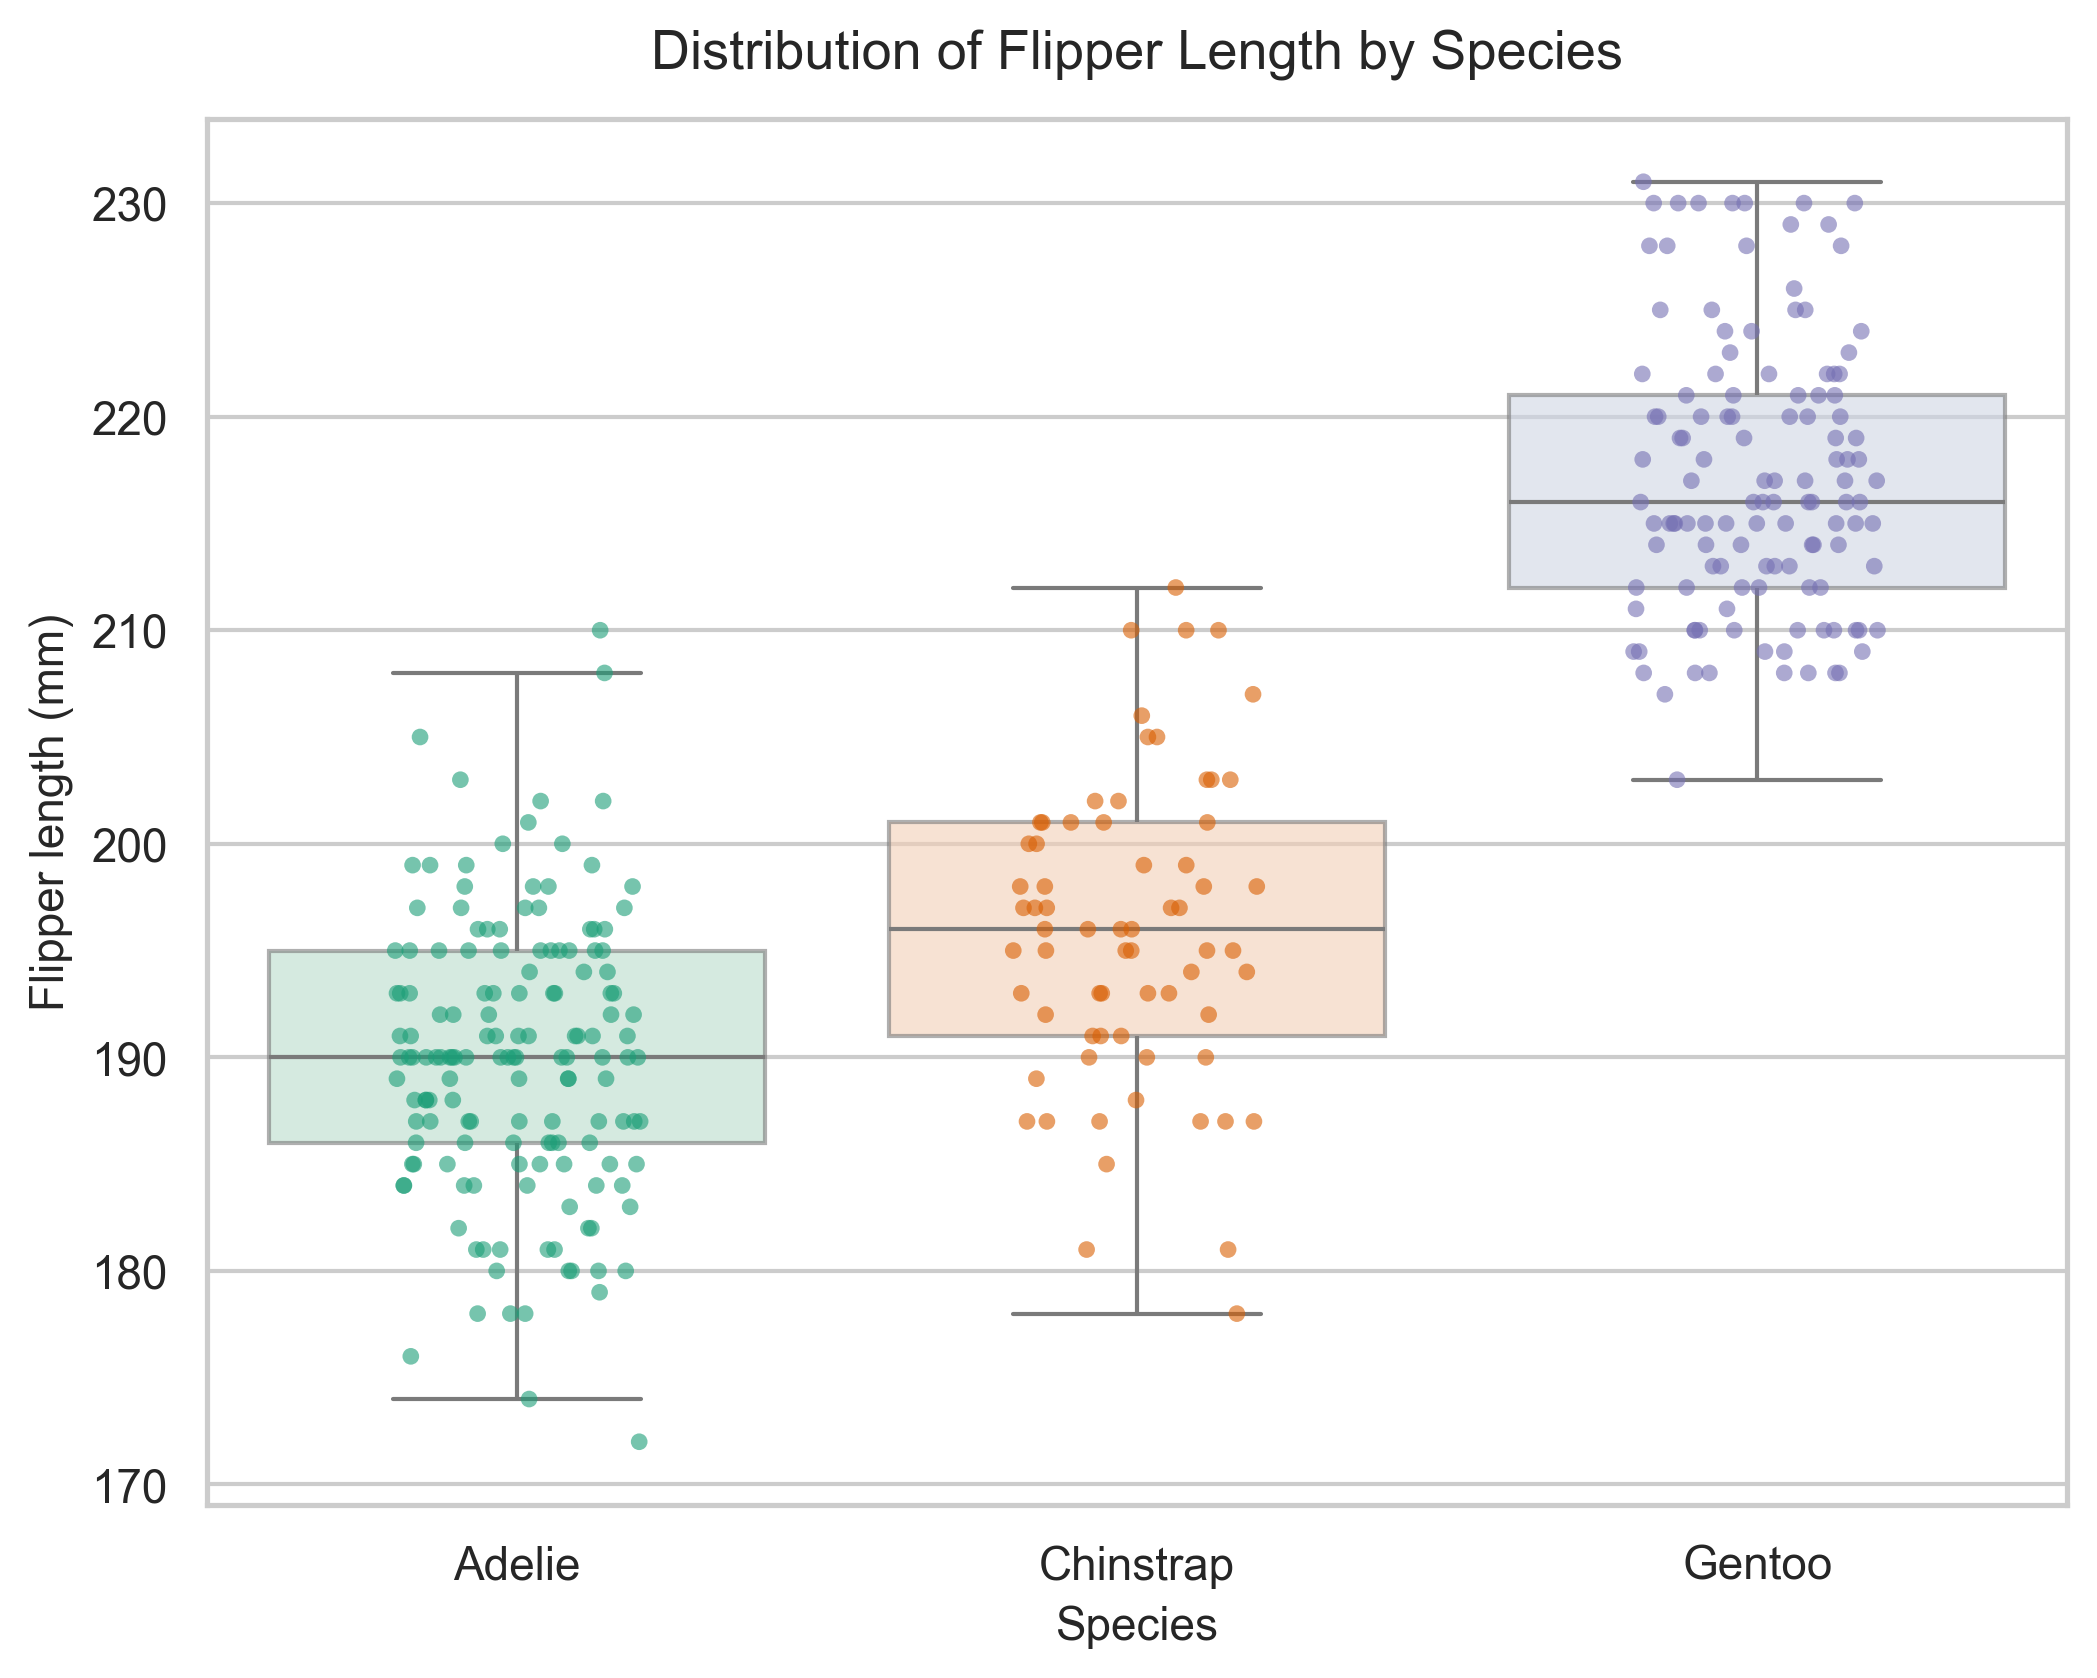
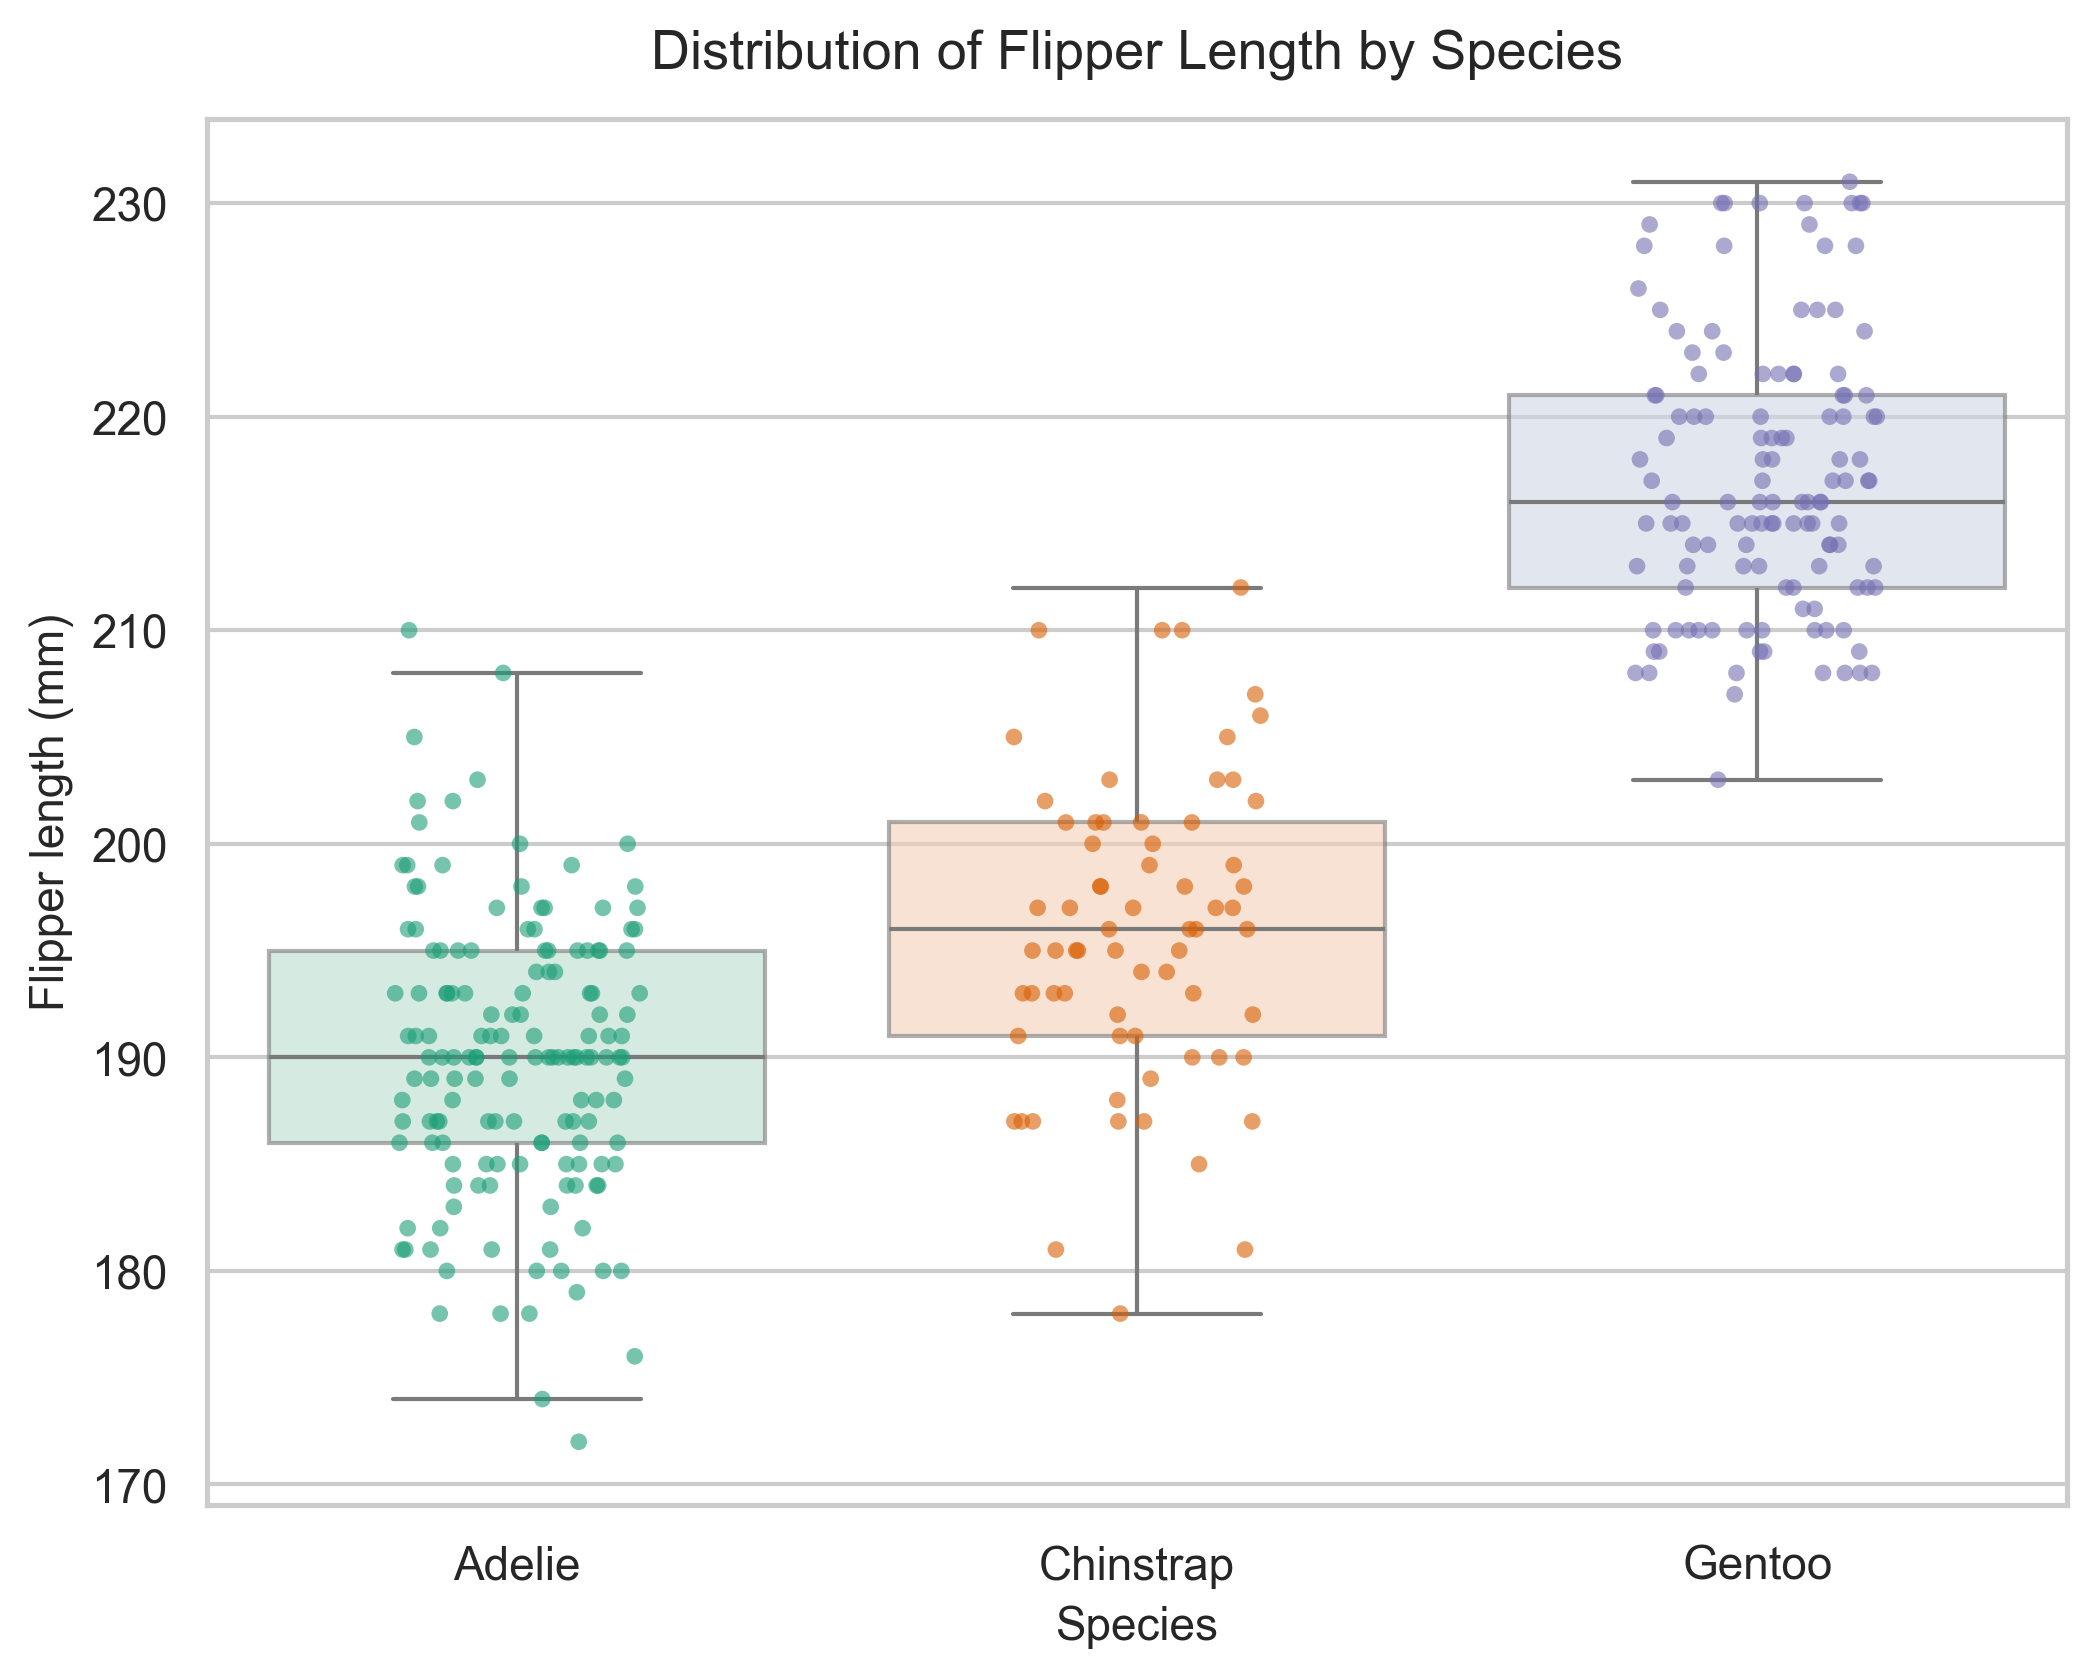
update

diff --git a/docs/index.md b/docs/index.md
@@ -3,6 +3,36 @@
 This site provides documentation for this project.
 Use the navigation to explore module-specific materials.
 
+## Custom Project: Penguin EDA Architecture
+### Name:
+**Jarred Gastreich**
+### Dataset
+* **Source**: Seaborn's native data repository (`sns.load_dataset("penguins")`).
+* **Scope**: 344 baseline observations across 8 categories, capturing biological measurements and localized tracking data for three distinct penguin species (*Adelie*, *Chinstrap*, and *Gentoo*) across the Palmer Archipelago islands (Biscoe, Dream, and Torgersen).
+
+### Signals
+* **Target/Grouping Vector (`GROUP_COL`)**: `species` (Categorical variable used to isolate, anchor, and segment structural distributions).
+* **Selected Continuous Analytics Features (`SELECTED_NUMERIC_COLS`)**:
+    * `bill_length_mm` (Continuous numeric signal capturing culinary/foraging adaptation).
+    * `bill_depth_mm` (Continuous numeric signal capturing vertical bill profile).
+    * `flipper_length_mm` (Continuous numeric signal strongly correlated with overall skeletal scale).
+    * `body_mass_g` (Continuous numeric mass metric indicating volumetric size).
+* **Engineered/Cleaned Signal**: `df_clean` (A filtered subset built via non-destructive rows drop down targeting records missing key numeric or categorical vectors, preserving mathematical validity for downstream matrix operations).
+
+### Experiments
+* **Experiment 1: Logger Pipeline Routing**: Modified Section 8 to output visualizations into the artifacts folder automatically to prevent user error where they may not remember to save files.
+* **Experiment 2: Visual Aesthetic & Grid Overlays**: Upgraded Section 8 (`make_plots`) by shifting from default plot baselines to a global `whitegrid` aesthetic. Applied point alpha-blending (`alpha=0.7`) to mitigate scatter plot over-plotting. Superimposed a horizontal jitter `stripplot` directly over a transparent (`alpha=0.6`) `boxplot` canvas to track exact data point frequency alongside quartile distributions.
+
+
+### Results
+* **Visualization Fidelity**: The cross-palette alignment (`Dark2` and `Pastel2`) created a clean, intuitive visual relationship across plots. The strip-on-box overlay successfully unmasked the raw underlying sample size distributions without distorting the interquartile ranges ($25\%$, $50\%$, $75\%$).
+* **I/O Execution**: The script safely targets and generates directory nodes automatically, successfully serializing ultra-crisp `.png` visual assets with zero label/title clipping due to the hard `bbox_inches="tight"` constraints.
+
+### Interpretation
+* **Core Feature Affinity**: The correlation heatmap demonstrates an incredibly tight linear affinity between `flipper_length_mm` and `body_mass_g` (~$0.87$). From a data analytics standpoint, this implies that flipper length acts as an elite proxy metric for body mass, making it an ideal primary independent variable ($X$) if we proceed with modeling a predictive linear regression engine.
+* **Cluster Distinctiveness**: The scatter layout proves that while *Adelie* and *Chinstrap* penguins share overlapping structural space regarding flipper size, they are heavily segmented by bill length. Conversely, *Gentoo* penguins form a distinct, highly isolated cluster characterized by massive skeletal sizing (flipper lengths tracking predominantly above $210\text{ mm}$), revealing high evolutionary divergence.
+* **Business/System Intelligence**: Structuring the code into decoupled loading, checking, cleaning, and visualization modules establishes a clean template model. The automated serialization layer means this script can seamlessly run headless on a remote server or within an automated orchestration workflow, throwing production-ready visual intelligence artifacts right into your project portfolio directories on execution.
+
 ## How-To Guide
 
 Many instructions are common to all our projects.
